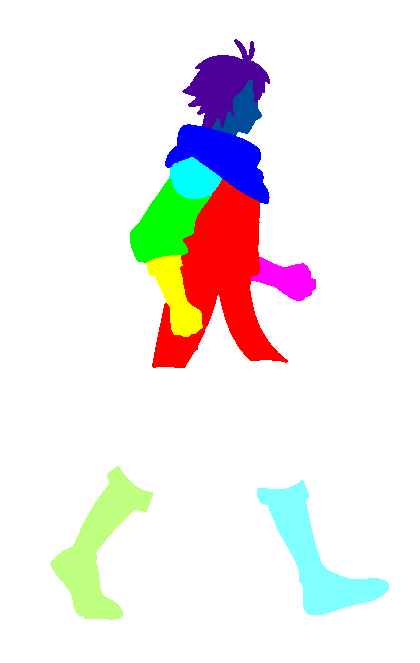
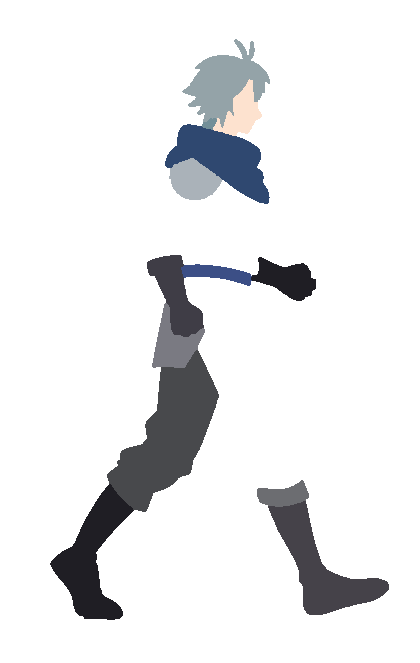
palette change

Changed region(s): [[0.1238, 0.0603, 0.7738, 0.9351], [0.5881, 0.724, 0.9286, 0.9351]]

diff --git a/lazybrush/lazybrush_components/palette.cpp b/lazybrush/lazybrush_components/palette.cpp
@@ -18,14 +18,14 @@
 unsigned char
 the_palette[128][3] =
 {
-    { 255,   0,   0 },
-    { 255, 255,   0 },
-    {   0, 255,   0 },
-    {   0, 255, 255 },
-    {   0,   0, 255 },
+    {  148,  163,  168 }, // start palete
+    { 253, 226,   207 },
+    {   47, 72,   112 },
+    {   170, 178, 185 },
+    {   122,   122, 130 },
     { 255,   0, 255 },
+    { 0, 255, 255 },
     { 255, 255, 255 },
-    { 230, 230, 230 },
     { 217, 217, 217 },
     { 204, 204, 204 },
     { 191, 191, 191 },
@@ -34,18 +34,18 @@ the_palette[128][3] =
     { 153, 153, 153 },
     { 140, 140, 140 },
     { 128, 128, 128 },
-    { 255,   0,   0 },
-    { 255, 255,   0 },
-    {   0, 255,   0 },
-    {   0, 255, 255 },
-    {   0,   0, 255 },
-    { 255,   0, 255 },
-    { 115, 115, 115 },
-    { 102, 102, 102 },
-    {  89,  89,  89 },
+    { 63,   61,   70 },
+    { 31, 30,   36 },
+    {   60, 79,   134 },
+    {   53, 51, 46 },
+    {   108,   109, 113 },
+    { 69,   66, 73 },
+    { 16, 16, 14 },
+    { 72, 73, 76 },
+    {  31,  30,  36 },
     {  76,  76,  76 },
-    {  64,  64,  64 },
-    {  51,  51,  51 },
+    {  255,  0,  0 }, // end palete
+    {  0,  255,  0 },
     {  38,  38,  38 },
     {  26,  26,  26 },
     {  13,  13,  13 },
